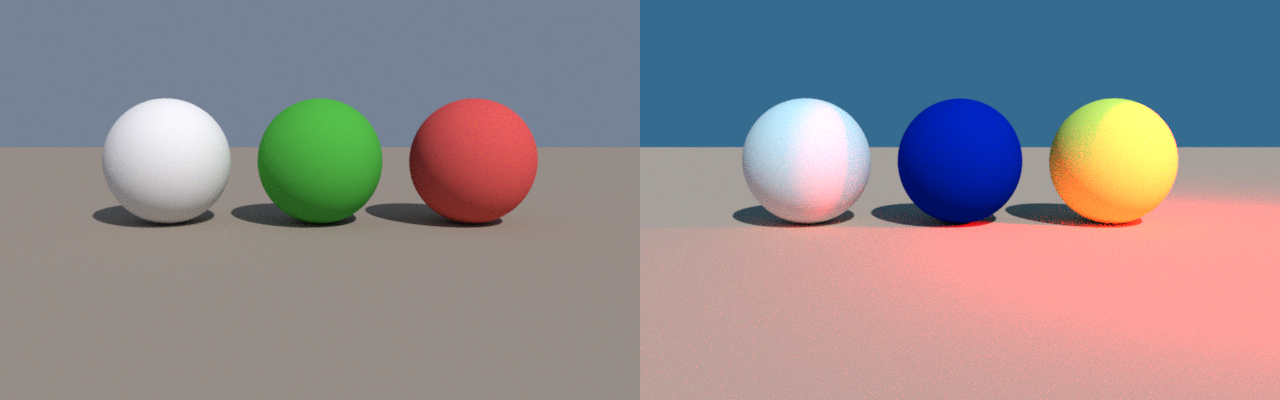
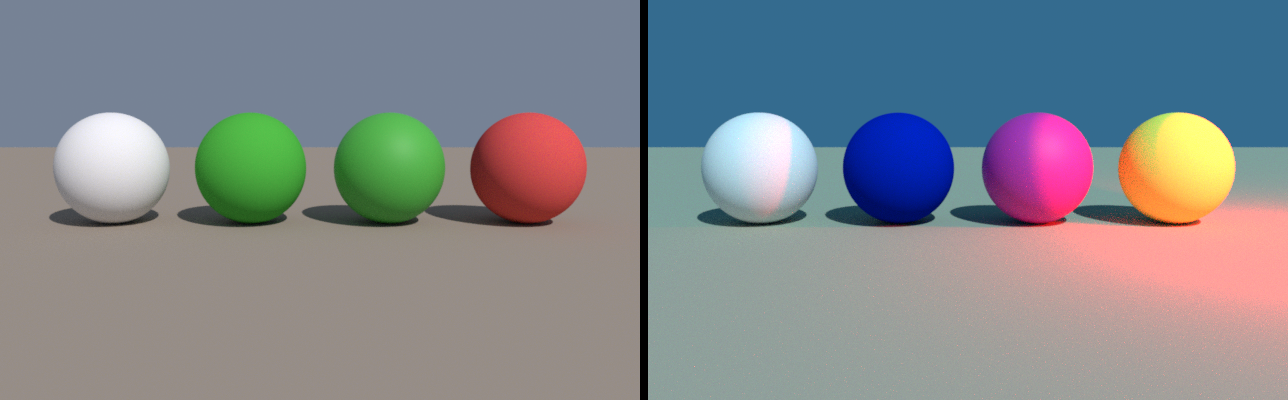
Per-material infrared reflectance (pbrt patch 38)
RGB reflectances only extend their red end into the infrared, so foliage
stayed dark in infrared renders. A float shader input pbrt:irReflectance
(pbrt:irEdge in nm, default 720) or a constant geometry primvar
pbrt:irReflectance / pbrt_irReflectance (per object, overrides the
material) sets the diffuse reflectance above the red edge, for diffuse
and hdpbrtlayered materials. pbrt blends the reflectance texture with it
per wavelength (smoothstep across the edge); the visible image is
unchanged.

tests/spectral/ir_scene.usda gains a "leaf" sphere (shader input) and an
infrared ground (primvar); docs/images/infrared.png updated. Typhoon
materials 34/8/0, unchanged per fixture.

diff --git a/hdPbrt/material.cpp b/hdPbrt/material.cpp
@@ -30,7 +30,8 @@ HdPbrtMaterialDesc HdPbrt_DefaultMaterial()
     return d;
 }
 
-std::string HdPbrt_MaterialLine(const HdPbrtMaterialDesc &m, const GfVec3f *displayColor)
+std::string HdPbrt_MaterialLine(const HdPbrtMaterialDesc &m, const GfVec3f *displayColor,
+                                float irReflectance)
 {
     std::ostringstream os;
     os << "Material " << HdPbrt_Quote(m.type);
@@ -44,7 +45,13 @@ std::string HdPbrt_MaterialLine(const HdPbrtMaterialDesc &m, const GfVec3f *disp
             os << " \"rgb reflectance\" " << HdPbrt_Rgb(c);
         }
     }
-    os << m.otherParams << "\n";
+    os << m.otherParams;
+    // Infrared reflectance (pbrt patch 38) on the diffuse base.
+    const float ir = irReflectance >= 0 ? irReflectance : m.irReflectance;
+    if (ir >= 0 && m.writeReflectance && (m.type == "diffuse" || m.type == "hdpbrtlayered"))
+        os << " \"float hdpbrtir\" " << std::min(ir, 1.f) << " \"float hdpbrtiredge\" "
+           << m.irEdge;
+    os << "\n";
     return os.str();
 }
 
@@ -1397,6 +1404,22 @@ void HdPbrtMaterial::Sync(HdSceneDelegate *sceneDelegate, HdRenderParam *renderP
         }
     }
 
+    // Infrared reflectance: inputs pbrt:irReflectance / pbrt:irEdge on the
+    // surface shader (or the Material's terminal node).
+    if (res.IsHolding<HdMaterialNetworkMap>()) {
+        for (auto const &kv : res.UncheckedGet<HdMaterialNetworkMap>().map)
+            for (auto const &node : kv.second.nodes)
+                for (auto const &p : node.parameters) {
+                    float f;
+                    if (p.second.IsHolding<float>()) f = p.second.UncheckedGet<float>();
+                    else if (p.second.IsHolding<double>()) f = (float)p.second.UncheckedGet<double>();
+                    else continue;
+                    if (p.first == "pbrt:irReflectance")
+                        result.irReflectance = f;
+                    else if (p.first == "pbrt:irEdge")
+                        result.irEdge = std::min(std::max(f, 400.f), 1100.f);
+                }
+    }
     result.volumeParams = volume.volumeParams;
     result.densityField = volume.densityField;
     result.fireField = volume.fireField;

diff --git a/hdPbrt/geom.cpp b/hdPbrt/geom.cpp
@@ -15,7 +15,9 @@
 
 PXR_NAMESPACE_OPEN_SCOPE
 
-TF_DEFINE_PRIVATE_TOKENS(_tokens, (displayColor)(displayOpacity));
+TF_DEFINE_PRIVATE_TOKENS(_tokens, (displayColor)(displayOpacity)
+                         ((pbrtIrReflectance, "pbrt:irReflectance"))
+                         ((pbrtIrReflectanceSop, "pbrt_irReflectance")));
 
 namespace {
 
@@ -162,7 +164,24 @@ void HdPbrtGeom::_SyncDisplayColor(HdSceneDelegate *sd)
         else if (o.value.IsHolding<float>())
             op = o.value.UncheckedGet<float>();
     }
+    // Infrared reflectance per object (pbrt_irReflectance: SOP attributes
+    // and Blender can't have a colon in the name).
+    HdPbrtPrimvar ir = HdPbrt_FindPrimvar(
+        sd, id, {_tokens->pbrtIrReflectance, _tokens->pbrtIrReflectanceSop});
+    float irRefl = -1.f;
+    if (ir.valid) {
+        const VtValue &v = ir.value;
+        if (v.IsHolding<VtFloatArray>() && !v.UncheckedGet<VtFloatArray>().empty())
+            irRefl = v.UncheckedGet<VtFloatArray>()[0];
+        else if (v.IsHolding<float>())
+            irRefl = v.UncheckedGet<float>();
+        else if (v.IsHolding<double>())
+            irRefl = (float)v.UncheckedGet<double>();
+        else if (v.IsHolding<VtDoubleArray>() && !v.UncheckedGet<VtDoubleArray>().empty())
+            irRefl = (float)v.UncheckedGet<VtDoubleArray>()[0];
+    }
     std::lock_guard<std::mutex> lock(_mutex);
+    _irReflectance = irRefl;
     _displayColor = col;
     _hasDisplayColor = ok;
     _displayOpacity = op;
@@ -292,7 +311,7 @@ void HdPbrtGeom::Write(std::ostream &os, HdRenderIndex &index,
         }
     }
     std::string matLine =
-        HdPbrt_MaterialLine(mat, _hasDisplayColor ? &_displayColor : nullptr);
+        HdPbrt_MaterialLine(mat, _hasDisplayColor ? &_displayColor : nullptr, _irReflectance);
     // Transmissive materials with an interior medium (pbrt's volpath).
     if (!mat.mediumName.empty())
         matLine += "  MediumInterface " + HdPbrt_Quote(mat.mediumName) + " \"\"\n";

diff --git a/hdPbrt/hdPbrt.h b/hdPbrt/hdPbrt.h
@@ -198,6 +198,10 @@ struct HdPbrtMaterialDesc {
     // medium (pbrt patch 35) and the fields it reads. Empty: not a pyro material.
     std::string volumeParams;
     TfToken densityField, fireField;
+    // Infrared reflectance (pbrt patch 38): the diffuse reflectance above the
+    // red edge (nm), for infrared renders; < 0: the RGB fit continues.
+    float irReflectance = -1.f;
+    float irEdge = 720.f;
 };
 
 class HdPbrtMaterial final : public HdMaterial {
@@ -223,8 +227,9 @@ bool HdPbrt_PyroVolume(const HdMaterialNetwork2 &net, const HdMaterialNode2 &n,
                        SdfPath const &id, HdPbrtMaterialDesc *d);
 
 // Writes the pbrt "Material" line for a material (or the default material).
+// irReflectance >= 0 overrides the material's (a geometry primvar).
 std::string HdPbrt_MaterialLine(const HdPbrtMaterialDesc &m,
-                                const GfVec3f *displayColor);
+                                const GfVec3f *displayColor, float irReflectance = -1.f);
 HdPbrtMaterialDesc HdPbrt_DefaultMaterial();
 
 // ---------------------------------------------------------------------------
@@ -329,6 +334,7 @@ protected:
     GfVec3f _displayColor{0.18f, 0.18f, 0.18f};
     bool _hasDisplayColor = false;
     float _displayOpacity = 1.f;
+    float _irReflectance = -1.f;  // primvar pbrt:irReflectance, < 0: none
     bool _instanced = false;
     VtArray<TfToken> _categories;
 };

diff --git a/CLAUDE.md b/CLAUDE.md
@@ -11,7 +11,7 @@ Full design and gotchas: `docs/BUILD_NOTES.md` (the same file as `~/dev/pbrt_hyd
 
 - `~/dev/pbrt_hydra/`: the working tree.
   - `hdPbrt/`: this repo (delegate source, `blender/hydra_pbrt` add-on, patches, docs, tests).
-  - `src/pbrt-v4`: pbrt-v4 at `20e41fd` plus branch `hdpbrt` (37 commits, the same as `patches/`;
+  - `src/pbrt-v4`: pbrt-v4 at `20e41fd` plus branch `hdpbrt` (38 commits, the same as `patches/`;
     regenerate from this repo with `git -C ../src/pbrt-v4 format-patch -q 20e41fd -o "$PWD/patches"`;
     a relative `-o` lands inside the pbrt checkout).
   - `src/OpenUSD-26.08`, `src/oneTBB-2022.3.0`, `src/usd-blender-generated`: headers for
@@ -150,6 +150,10 @@ protocol. The final image comes from the PFM pbrt writes. The pbrt patches are:
    written raw (XYZFromSensorRGB = the output space's XYZFromRGB), each normalized so an
    equal-energy spectrum with white's visible power reads 1, and wavelengths sampled uniformly
    over the bands' +-3 sigma (PixelSensor::HdPbrtSamplesRange, FilmBase::SampleWavelengths).
+38. Infrared reflectance: `diffuse` and `hdpbrtlayered` take `"float hdpbrtir"` (reflectance above
+   the red edge), `"float hdpbrtiredge"` (nm, default 720) and `"float hdpbrtirwidth"` (60). The
+   reflectance texture is wrapped in a SpectrumMixTexture that blends per wavelength (smoothstep
+   across the edge; `SetHdPbrtInfrared`) instead of by `amount`.
 
 ## Done in the 2026-11-22 session
 
@@ -341,10 +345,15 @@ workflow with specularColor 0, or ior 1) must be pbrt `diffuse`, not coateddiffu
   mode is on). Checks: an 850 nm light is black to the color camera, red (4.1) to the bands
   camera; white light through the bands reads (0.77, 1.03, 1.21) (ACES D60's real spectrum,
   with infrared). Test scene: `tests/spectral/ir_scene.usda` (+ `_infrared` override);
-  `docs/images/infrared.png`. Limit: RGB reflectances have no infrared character (pbrt's
-  sigmoid upsampling just extends the RGB curve), so foliage doesn't glow in IR (no Wood
-  effect); next step would be per-material infrared reflectance. IR renders are noisier
-  (uniform wavelength sampling).
+  `docs/images/infrared.png`. IR renders are noisier (uniform wavelength sampling).
+- Infrared reflectance (2026-11-26, pbrt patch 38): RGB reflectances just extend their red end
+  into the infrared (pbrt's sigmoid fit), so foliage stayed dark. A float shader input
+  `pbrt:irReflectance` (any node of the material's network; `pbrt:irEdge` nm, default 720) or a
+  constant geometry primvar `pbrt:irReflectance` / `pbrt_irReflectance` (SOP attribute name;
+  overrides the material, per object) sets the diffuse reflectance above the red edge; only
+  `diffuse` and `hdpbrtlayered` take it (`HdPbrt_MaterialLine`). The visible image is unchanged.
+  The "leaf" sphere and the ground in `tests/spectral/ir_scene.usda` use both routes. Blender's
+  Hydra export doesn't pass custom mesh attributes (checked), so Blender can't set it yet.
 - Not translated yet: in-memory Houdini volumes (`op:` paths). Volume materials other than
   the Karma pyro shader (e.g. MaterialX volumes on Volume prims) use the renderer settings.
 - Karma pyro shader (2026-11-25, pbrt patch 35): Houdini exports kma_pyroshader as a MaterialX

diff --git a/README.md b/README.md
@@ -90,7 +90,10 @@ to ACEScg. Textures are read in their own color space (file metadata or the shad
 sRGB/Rec.709 primaries) and converted, as Karma does.
 Lights and cameras can also work in nanometers: `pbrt:spectrum` band / blackbody on lights,
 `pbrt:sensor` bands on cameras (e.g. infrared false color, 360-1100 nm); in Houdini they are
-on the pbrt tab of Light and Camera LOPs. See `docs/images/infrared.png`.
+on the pbrt tab of Light and Camera LOPs. For infrared, a material's diffuse reflectance above
+the red edge can be set with a float shader input `pbrt:irReflectance` (or per object with a
+constant primvar `pbrt_irReflectance`, e.g. a detail attribute in SOPs): foliage at about 0.6
+glows as on infrared film. See `docs/images/infrared.png`.
 Not yet: volume materials other than the Karma pyro shader,
 in-memory Houdini volumes (write VDBs to disk).
 
